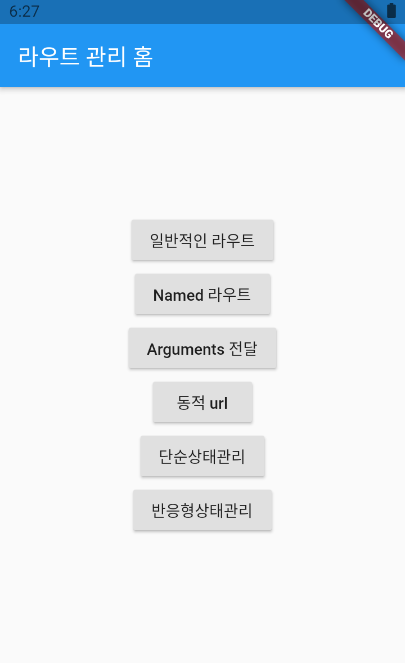
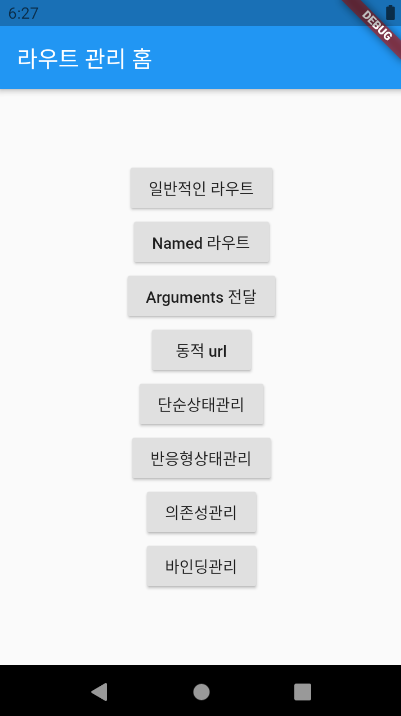
2021.02.07.

diff --git a/lib/pages/dependencys/dependencys_manage_page.dart b/lib/pages/dependencys/dependencys_manage_page.dart
@@ -1,0 +1,74 @@
+import 'package:flutter/material.dart';
+import 'package:flutter_getx/pages/dependencys/get_lazyput.dart';
+import 'package:flutter_getx/pages/dependencys/get_put.dart';
+import 'package:flutter_getx/src/controller/dependency_controller.dart';
+import 'package:get/get.dart';
+
+class DependencyManagePage extends StatelessWidget {
+  const DependencyManagePage({Key key}) : super(key: key);
+
+  @override
+  Widget build(BuildContext context) {
+    return Scaffold(
+      appBar: AppBar(
+        title: Text("의존성 주입"),
+      ),
+      body: Center(
+        child: Column(
+          mainAxisAlignment: MainAxisAlignment.center,
+          children: [
+            RaisedButton(
+              child: Text("Get.put"),
+              onPressed: () {
+                Get.to(
+                  GetPut(),
+                  binding: BindingsBuilder(() {
+                    Get.put(DenpendencyContoroller());
+                  }),
+                );
+              },
+            ),
+            RaisedButton(
+              child: Text("Get.lasyPut"),
+              onPressed: () {
+                Get.to(
+                  GetLazyPut(),
+                  binding: BindingsBuilder(() {
+                    Get.lazyPut<DenpendencyContoroller>(
+                        () => DenpendencyContoroller());
+                  }),
+                );
+              },
+            ),
+            RaisedButton(
+              child: Text("Get.putAsync"),
+              onPressed: () {
+                Get.to(
+                  GetPut(),
+                  binding: BindingsBuilder(() {
+                    Get.putAsync<DenpendencyContoroller>(() async {
+                      await Future.delayed(Duration(seconds: 5));
+                      return DenpendencyContoroller();
+                    });
+                  }),
+                );
+              },
+            ),
+            RaisedButton(
+              child: Text("Get.create"),
+              onPressed: () {
+                Get.to(
+                  GetPut(),
+                  binding: BindingsBuilder(() {
+                    Get.create<DenpendencyContoroller>(
+                        () => DenpendencyContoroller());
+                  }),
+                );
+              },
+            ),
+          ],
+        ),
+      ),
+    );
+  }
+}

diff --git a/lib/pages/binding.dart b/lib/pages/binding.dart
@@ -1,0 +1,35 @@
+import 'package:flutter/material.dart';
+import 'package:flutter_getx/src/controller/count_controller_with_getx.dart';
+import 'package:get/get.dart';
+
+class BindingPage extends GetView<CountControllerWithGetX> {
+  const BindingPage({Key key}) : super(key: key);
+
+  @override
+  Widget build(BuildContext context) {
+    return Scaffold(
+      appBar: AppBar(),
+      body: Column(
+        children: [
+          GetBuilder<CountControllerWithGetX>(builder: (_) {
+            return Text(
+              _.count.toString(),
+              style: TextStyle(fontSize: 40),
+            );
+          }),
+          // Obx(() => Text(
+          //       controller.count.toString(),
+          //       style: TextStyle(fontSize: 40),
+          //     )),
+          RaisedButton(
+            onPressed: () {
+              //Get.find<CountControllerWithGetX>().increase();
+              //CountControllerWithGetX.to.increase(); //static으로 정의 했을 경우
+              controller.increase(); //extends GetView 했을 경우
+            },
+          ),
+        ],
+      ),
+    );
+  }
+}

diff --git a/lib/src/home.dart b/lib/src/home.dart
@@ -1,4 +1,5 @@
 import 'package:flutter/material.dart';
+import 'package:flutter_getx/pages/dependencys/dependencys_manage_page.dart';
 import 'package:flutter_getx/pages/reactive_state_manage_page.dart';
 import 'package:flutter_getx/pages/simple_state_manage_page.dart';
 import 'package:get/get.dart';
@@ -61,6 +62,18 @@ class Home extends StatelessWidget {
               child: Text("반응형상태관리"),
               onPressed: () {
                 Get.to(ReactiveStateManagePage());
+              },
+            ),
+            RaisedButton(
+              child: Text("의존성관리"),
+              onPressed: () {
+                Get.to(DependencyManagePage());
+              },
+            ),
+            RaisedButton(
+              child: Text("바인딩관리"),
+              onPressed: () {
+                Get.toNamed("/binding");
               },
             ),
           ],

diff --git a/lib/main.dart b/lib/main.dart
@@ -1,8 +1,11 @@
 import 'package:flutter/material.dart';
+import 'package:flutter_getx/pages/binding.dart';
 import 'package:flutter_getx/pages/named/first.dart';
 import 'package:flutter_getx/pages/named/second.dart';
 import 'package:flutter_getx/pages/next.dart';
 import 'package:flutter_getx/pages/user.dart';
+import 'package:flutter_getx/src/binding/binding_page.dart';
+import 'package:flutter_getx/src/controller/count_controller_with_getx.dart';
 import 'package:flutter_getx/src/home.dart';
 import 'package:get/get.dart';
 
@@ -38,6 +41,11 @@ class MyApp extends StatelessWidget {
             name: "/user/:uid",
             page: () => UserPage(),
             transition: Transition.zoom),
+        GetPage(
+          name: "/binding",
+          page: () => BindingPage(),
+          binding: BindingPageBinding(),
+        ),
       ],
     );
   }

diff --git a/lib/pages/dependencys/get_put.dart b/lib/pages/dependencys/get_put.dart
@@ -1,0 +1,20 @@
+import 'package:flutter/material.dart';
+import 'package:flutter_getx/src/controller/dependency_controller.dart';
+import 'package:get/get.dart';
+
+class GetPut extends StatelessWidget {
+  const GetPut({Key key}) : super(key: key);
+
+  @override
+  Widget build(BuildContext context) {
+    return Scaffold(
+      appBar: AppBar(),
+      body: RaisedButton(
+        onPressed: () {
+          print(Get.find<DenpendencyContoroller>().hashCode);
+          Get.find<DenpendencyContoroller>().increas();
+        },
+      ),
+    );
+  }
+}

diff --git a/lib/pages/dependencys/get_lazyput.dart b/lib/pages/dependencys/get_lazyput.dart
@@ -1,0 +1,19 @@
+import 'package:flutter/material.dart';
+import 'package:flutter_getx/src/controller/dependency_controller.dart';
+import 'package:get/get.dart';
+
+class GetLazyPut extends StatelessWidget {
+  const GetLazyPut({Key key}) : super(key: key);
+
+  @override
+  Widget build(BuildContext context) {
+    return Scaffold(
+      appBar: AppBar(),
+      body: RaisedButton(
+        onPressed: () {
+          Get.find<DenpendencyContoroller>().increas();
+        },
+      ),
+    );
+  }
+}

diff --git a/lib/src/controller/count_controller_with_getx.dart b/lib/src/controller/count_controller_with_getx.dart
@@ -2,10 +2,16 @@ import 'package:flutter/cupertino.dart';
 import 'package:get/get.dart';
 
 class CountControllerWithGetX extends GetxController {
+  static CountControllerWithGetX get to => Get.find();
   int count = 0;
 
-  void increase(String id) {
+  void increase() {
     count++;
-    update([id]);
+    update();
+  }
+
+  void putNumber(int value) {
+    count = value;
+    update();
   }
 }

diff --git a/lib/pages/state/with_getx.dart b/lib/pages/state/with_getx.dart
@@ -11,7 +11,7 @@ class WithGetX extends StatelessWidget {
     return RaisedButton(
       child: Text("+", style: TextStyle(fontSize: 30)),
       onPressed: () {
-        _controllerWithGetX.increase(id);
+        _controllerWithGetX.increase();
       },
     );
   }

diff --git a/lib/src/binding/binding_page.dart b/lib/src/binding/binding_page.dart
@@ -1,0 +1,9 @@
+import 'package:flutter_getx/src/controller/count_controller_with_getx.dart';
+import 'package:get/get.dart';
+
+class BindingPageBinding implements Bindings {
+  @override
+  void dependencies() {
+    Get.put(CountControllerWithGetX());
+  }
+}

diff --git a/lib/src/controller/dependency_controller.dart b/lib/src/controller/dependency_controller.dart
@@ -1,0 +1,5 @@
+import 'package:get/get.dart';
+
+class DenpendencyContoroller extends GetxController {
+  void increas() {}
+}
